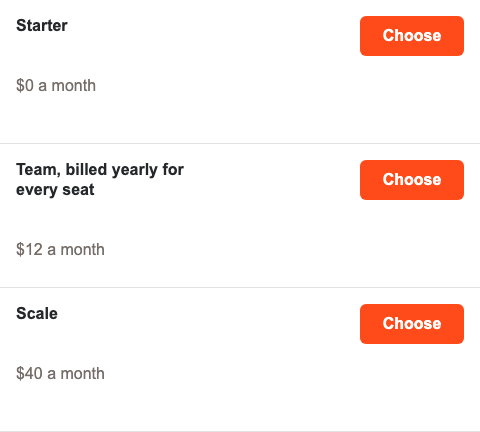
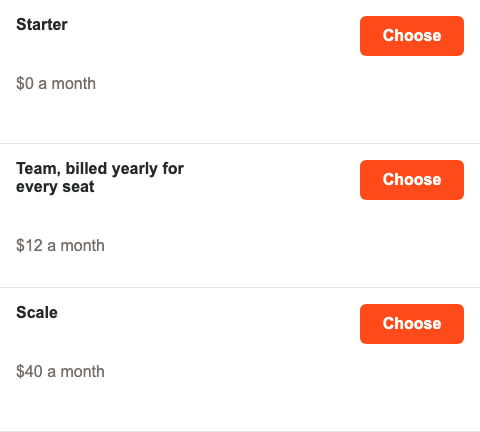
fix(examples): the renamed heading is one region on every platform
Its two lines sat four empty rows apart, so a glyph edge's difference
on Linux split them across 8px grouping cells and the report gained a
sixth region. At an 18px line the gap is two rows.

diff --git a/examples/visual-review-case/src/plans.js b/examples/visual-review-case/src/plans.js
@@ -35,7 +35,7 @@ export function PlanName({ name }) {
     width: '200px',
     margin: '0',
     font: `600 ${FONT}`,
-    lineHeight: '20px',
+    lineHeight: '18px',
     color: '#24282a',
   });
   heading.textContent = name;

diff --git a/examples/visual-review-case/README.md b/examples/visual-review-case/README.md
@@ -55,11 +55,11 @@ components:
       in main → region "Plans" → list item 3 of 3 → button "Choose"
       examples/visual-review-case/src/plans.js:56
       shape v1:f0ceae0539be67e3c965076afb3829ee
-  cause      733px at 17,163 166×35 — PlanName
+  cause      733px at 17,162 166×33 — PlanName
       in main → region "Plans" → list item 2 of 3 → heading "Team, billed yearly for every seat"
       examples/visual-review-case/src/plans.js:33
       shape v1:7aad695648c27135a2385d1af21f4b76
-  collateral 524px at 17,223 87×32 — Price
+  collateral 524px at 17,221 87×30 — Price
       in main → region "Plans" → list item 2 of 3
       examples/visual-review-case/src/plans.js:45
       shape v1:dcf78d63305c64e488747e46bad7df98

diff --git a/docs/explain-variance.md b/docs/explain-variance.md
@@ -20,7 +20,7 @@ page and its source line. In the
 name pushes the price below it down, and the price's region says so:
 
 ```text
-  collateral 524px at 17,223 87×32 — Price
+  collateral 524px at 17,221 87×30 — Price
       in main → region "Plans" → list item 2 of 3
       examples/visual-review-case/src/plans.js:45
 ```
